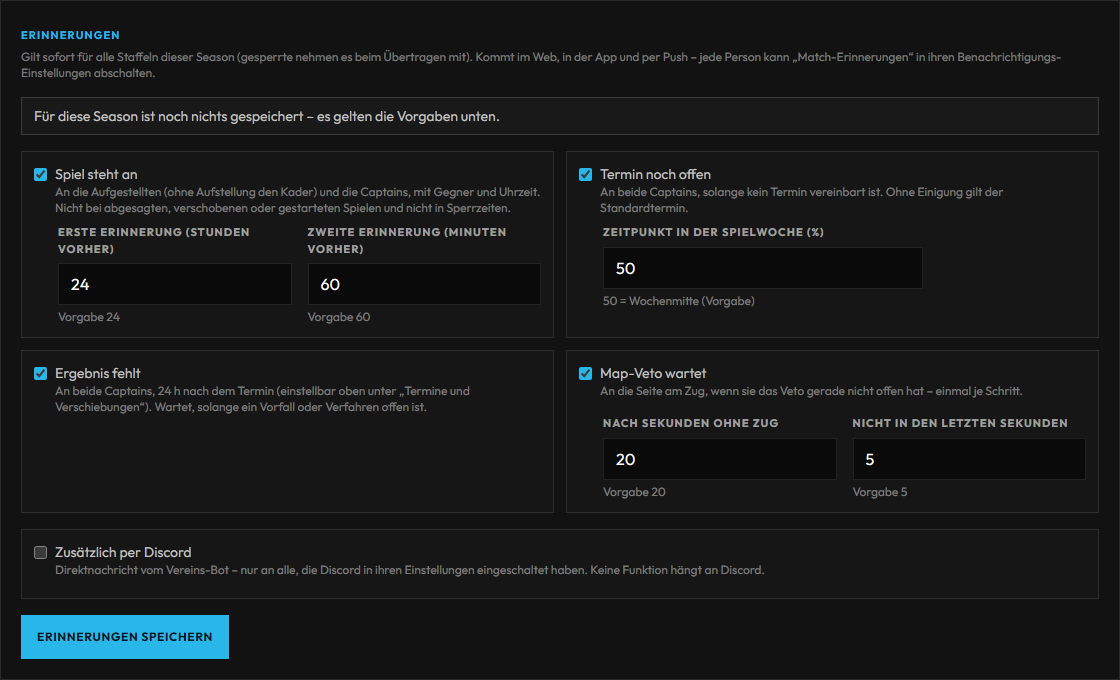
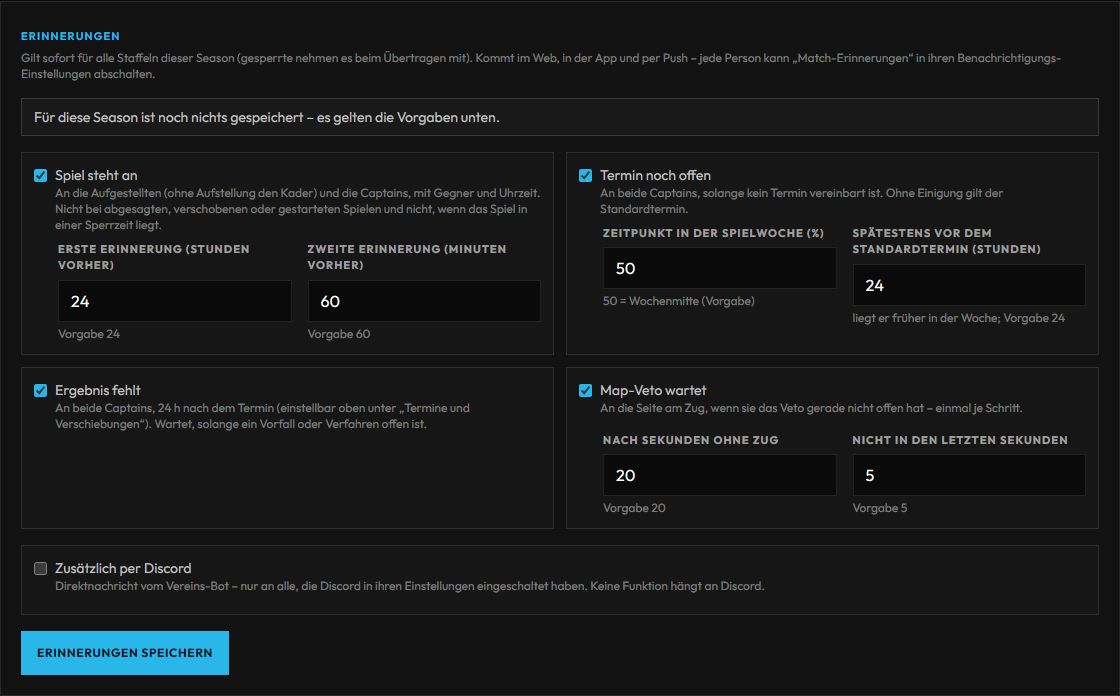
docs: Bild des Kastens Erinnerungen mit dem neuen Feld (#1647)

diff --git a/docs/handbuch/liga.md b/docs/handbuch/liga.md
@@ -535,7 +535,7 @@ Jede Erinnerung kommt höchstens einmal, auch wenn der Job doppelt läuft. Spiel
 Benachrichtigungs-Einstellungen ab (Web und App). Die Nachricht „Spiel startet in 10 Minuten“ kommt in allen Turnieren und ist hier nicht
 einstellbar.
 
-<img src="../assets/liga/liga-season-erinnerungen-pc.png" alt="Kasten Erinnerungen im Reiter Termine: Schalter für Spiel steht an mit 24 Stunden und 60 Minuten, Termin noch offen bei 50 Prozent der Spielwoche, Ergebnis fehlt, Map-Veto wartet mit 20 und 5 Sekunden, darunter Zusätzlich per Discord" width="820">
+<img src="../assets/liga/liga-season-erinnerungen-pc.png" alt="Kasten Erinnerungen im Reiter Termine: Schalter für Spiel steht an mit 24 Stunden und 60 Minuten, Termin noch offen bei 50 Prozent der Spielwoche und spätestens 24 Stunden vor dem Standardtermin, Ergebnis fehlt, Map-Veto wartet mit 20 und 5 Sekunden, darunter Zusätzlich per Discord" width="820">
 
 ### 2.7d Veto: Maps vor dem Spiel sperren und wählen (Regelwerk § 6, Anlage B)
 
